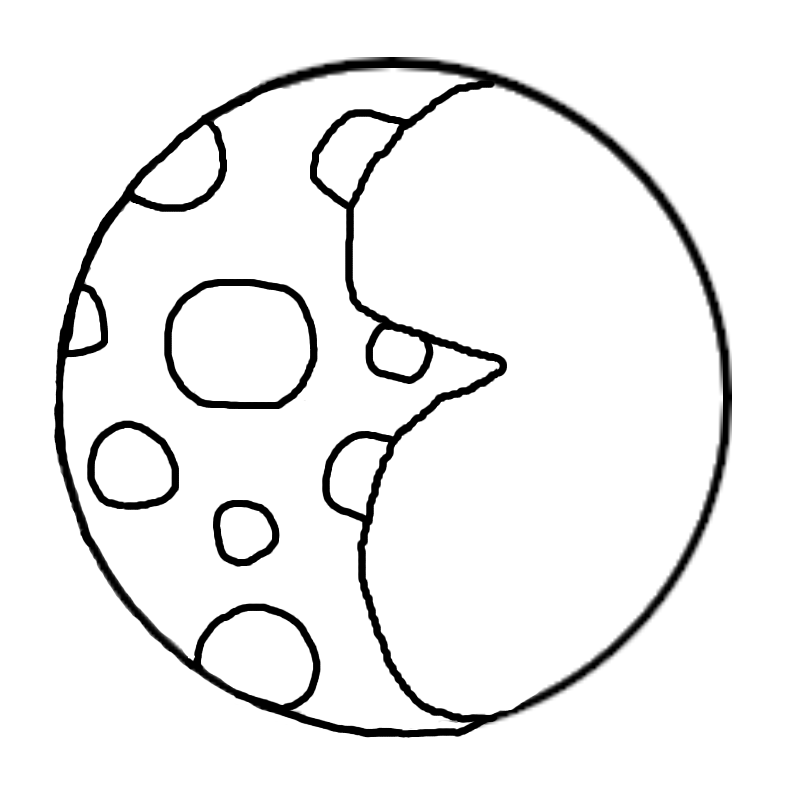
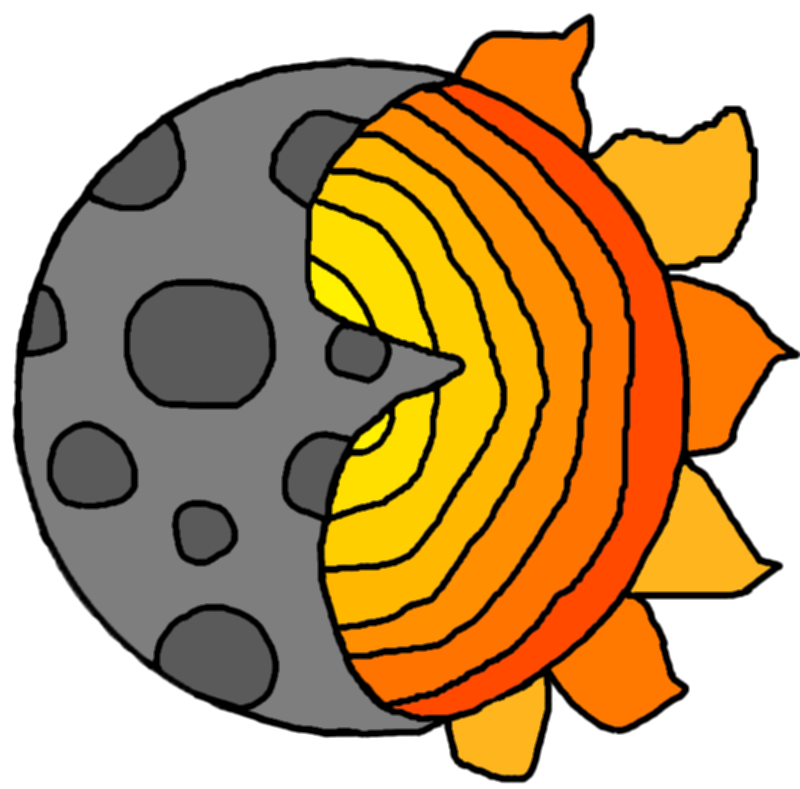
feat: finish sun moon dial for am and pm. Am time will display the sun while pm time will display the moon.

diff --git a/javascript/functions/popup/mount/mountClock.js b/javascript/functions/popup/mount/mountClock.js
@@ -1,6 +1,8 @@
 import { createPopup } from "../createPopup.js";
 import { time } from "../../../data/time.js";
 let timeUnitDom = [];
+let sunMoonDialArt = document.createElement("img");
+
 
 function updateClockTens(unit) {
   if (unit == "none") {
@@ -44,6 +46,11 @@ function updateClockTens(unit) {
         timeUnitDom[i].textContent = time[unit].value;
       }
     }
+  }
+  if (time.hour.value >= 12) {
+    sunMoonDialArt.style.rotate="0deg";
+  } else {
+    sunMoonDialArt.style.rotate="185deg";
   }
 }
 
@@ -91,6 +98,11 @@ function updateClock(unit) {
         timeUnitDom[i].textContent = time[unit].value;
       }
     }
+  }
+  if (time.hour.value >= 12) {
+    sunMoonDialArt.style.rotate="0deg";
+  } else {
+    sunMoonDialArt.style.rotate="185deg";
   }
 }
 
@@ -167,6 +179,10 @@ function mountClock() {
   createTimeInput("second");
   clockDiv.appendChild(timeInputFullTimeDiv);
   menuDiv.appendChild(clockDiv);
+
+  sunMoonDialArt.src = "./assets/misc/timeDial.png";
+  sunMoonDialArt.setAttribute("id", "timeDialArt");
+  clockDiv.appendChild(sunMoonDialArt);
 
   setInterval(function () {
     time.second.value++;

diff --git a/style.css b/style.css
@@ -400,7 +400,6 @@ img{
   display:flex;
   justify-content: center;
   align-items: center;
-  background-color: #ff3a3a;
 }
 #popupClose {
   display:flex;
@@ -454,4 +453,11 @@ img{
   z-index: 200;
   position: absolute;
   font-weight:bold;
+}
+#timeDialArt {
+  width: 100px;
+  position: relative;
+  top:165px;
+  left:95px;
+  z-index: -2;
 }
